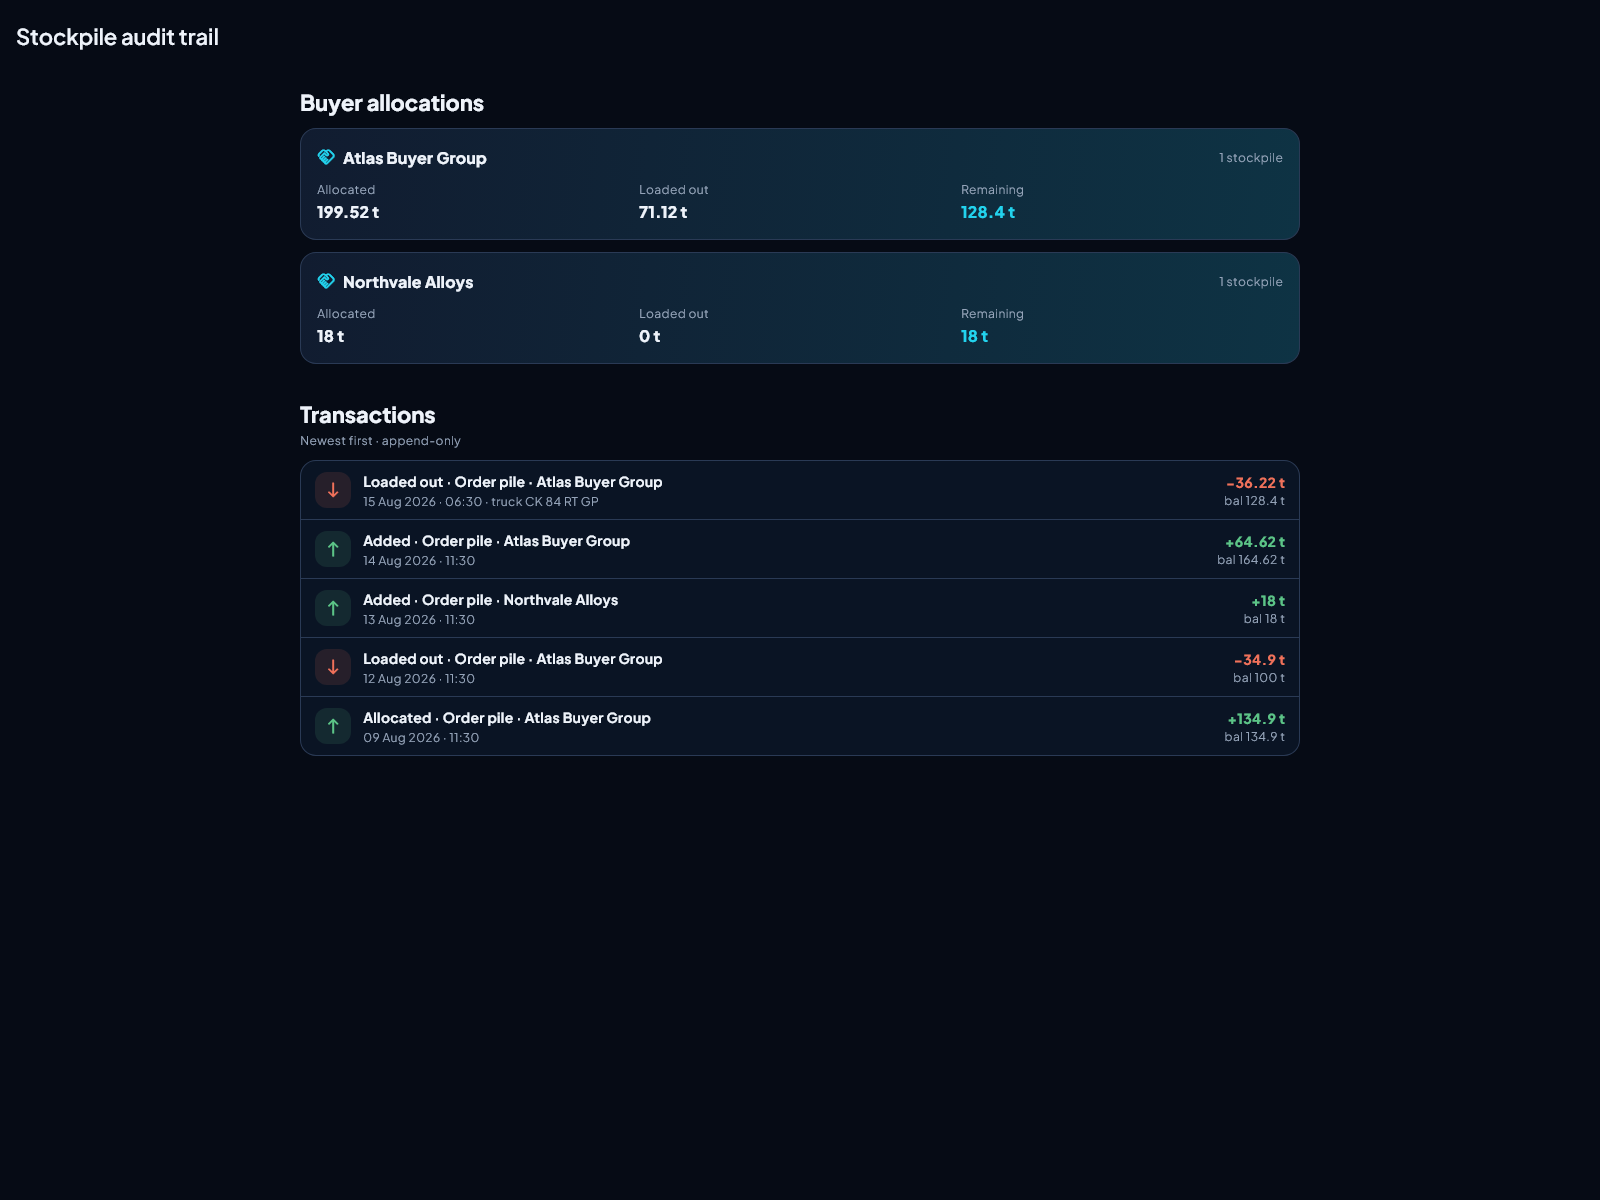
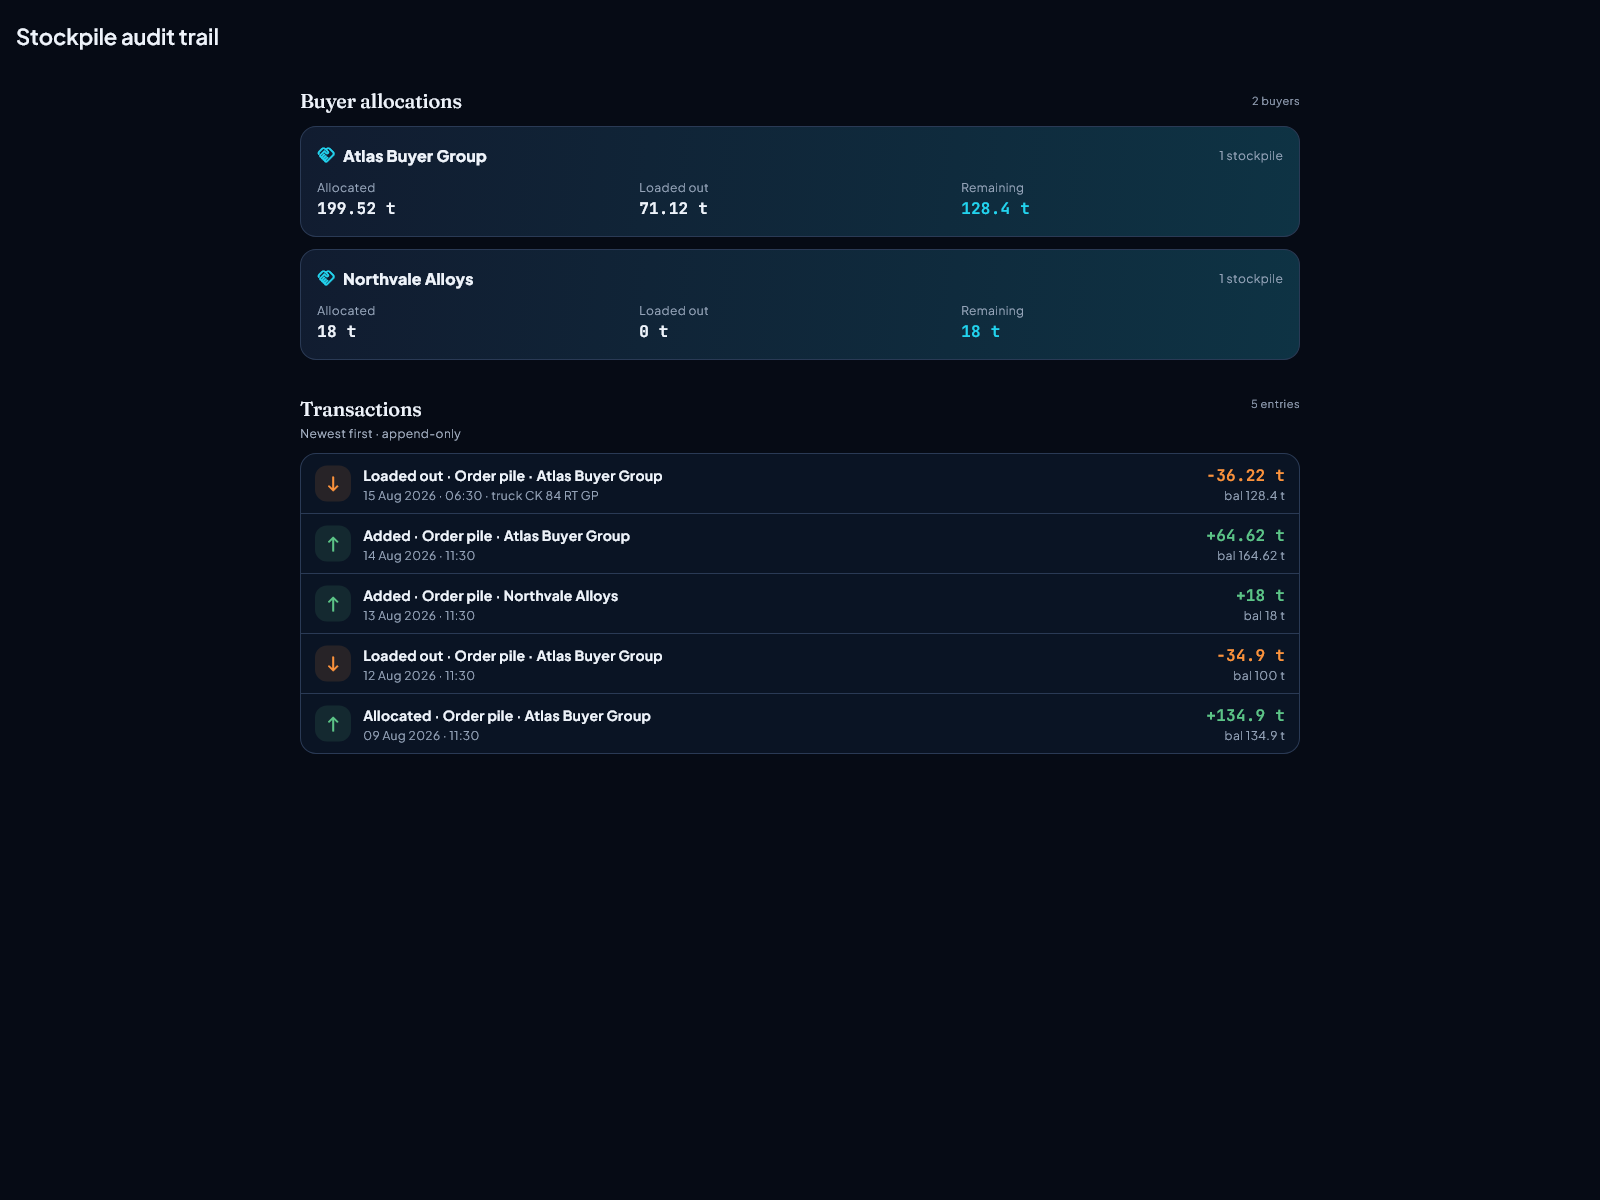
fix(mine): the stockpile audit trail heads in the display face, tones a load-out amber, keeps the plate whole and sets its figures in mono
Phase 3 mine-portal pass, 2026-08-23. Four faults on one screen:
- "Buyer allocations" and "Transactions" were 22px sans ExtraBold with the
  sub-line a separate Text → MlSectionTitle with a count meta and the
  subtitle in its slot.
- Every "Loaded out" movement drew in the ERROR tone — red well, red
  figure — for a normal load-out. The reference reserves red for a fault
  and makes a downward figure amber (design-reference §4) → MlTone.warn;
  additions stay green.
- "15 Aug 2026 · 06:30 · truck CK 84 RT" / "GP" on a phone → the plate's
  spaces are U+00A0, so it is one token.
- The allocation figures and the ± deltas were sans w800 → mono.

Pinned by stockpile_audit_heads_test.dart, one case each; sabotaged by
stashing the screen — all four fail ('"Buyer allocations" is not Fraunces',
'a load-out figure is red', 'plate "CK 84 RT GP" carries a breakable
space', 'Expected JetBrainsMono'). Both audit goldens regenerated and
looked at side by side.

Changed region(s): [[0.1875, 0.0617, 0.8125, 0.3083], [0.1875, 0.3392, 0.4375, 0.6167], [0.75, 0.37, 0.8125, 0.6167]]

diff --git a/lib/features/portal/screens/stockpile_audit_screen.dart b/lib/features/portal/screens/stockpile_audit_screen.dart
@@ -10,7 +10,8 @@ import 'package:flutter_application_1/features/portal/providers/stockpile_ledger
 import 'package:flutter_application_1/features/portal/utils/portal_company_resolution.dart';
 import 'package:flutter_application_1/features/portal/widgets/premium_overview_widgets.dart';
 import 'package:flutter_application_1/features/portal/widgets/portal_company_required.dart';
-import 'package:flutter_application_1/core/design/tokens/ml_tokens.dart';
+import 'package:flutter_application_1/core/design/components/ml_components.dart';
+import 'package:flutter_application_1/core/design/tokens/m3/ml_typography.dart';
 import 'package:flutter_application_1/core/time/ml_time.dart';
 
 /// Permanent stockpile audit trail: per-buyer balances and the full,
@@ -53,24 +54,22 @@ class StockpileAuditScreen extends ConsumerWidget {
             child: Column(
               crossAxisAlignment: CrossAxisAlignment.start,
               children: [
-                Text('Buyer allocations',
-                    style: Theme.of(context)
-                        .textTheme
-                        .titleLarge
-                        ?.copyWith(fontWeight: FontWeight.w800)),
-                const SizedBox(height: 12),
+                // Section headings in the reference's vocabulary — both
+                // were 22px sans ExtraBold, with the sub-line a separate
+                // Text. Phase 3 mine pass, 2026-08-23.
+                MlSectionTitle(
+                  'Buyer allocations',
+                  meta: mlCount(buyerList.length, 'buyer'),
+                  margin: const EdgeInsets.only(bottom: 12),
+                ),
                 for (final b in buyerList) _BuyerBalanceCard(buyer: b, ledger: ledger),
                 const SizedBox(height: 24),
-                Text('Transactions',
-                    style: Theme.of(context)
-                        .textTheme
-                        .titleLarge
-                        ?.copyWith(fontWeight: FontWeight.w800)),
-                const SizedBox(height: 4),
-                Text('Newest first · append-only',
-                    style: Theme.of(context).textTheme.bodySmall?.copyWith(
-                        color: scheme.onSurfaceVariant)),
-                const SizedBox(height: 12),
+                MlSectionTitle(
+                  'Transactions',
+                  subtitle: 'Newest first · append-only',
+                  meta: mlCount(ledger.transactions.length, 'entry', 'entries'),
+                  margin: const EdgeInsets.only(bottom: 12),
+                ),
                 if (ledger.transactions.isEmpty)
                   Text('No transactions yet.',
                       style: TextStyle(color: scheme.onSurfaceVariant))
@@ -193,12 +192,14 @@ class _Stat extends StatelessWidget {
                   .bodySmall
                   ?.copyWith(color: scheme.onSurfaceVariant)),
           const SizedBox(height: 2),
+          // Mono: a figure in a column (design-reference §3).
           Text(
             value,
-            style: Theme.of(context).textTheme.titleMedium?.copyWith(
-                  fontWeight: FontWeight.w800,
-                  color: emphasize ? PortalColors.accent : scheme.onSurface,
-                ),
+            style: context.mlText.code(
+              size: MlTokens.fsH3,
+              weight: FontWeight.w700,
+              color: emphasize ? PortalColors.accent : scheme.onSurface,
+            ),
           ),
         ],
       ),
@@ -218,8 +219,12 @@ class _TxnRow extends StatelessWidget {
     // theme was. On the dark stockpile ledger that put `-36.22 t` at 3.28:1
     // and `+64.62 t` at 3.60:1 — the tonnage, which is the only number on the
     // row anyone came to read. `MlTone` is the brightness-aware pair, and it
-    // carries the lifecycle meaning too: out is an error tone, in is done.
-    final tone = (isOut ? MlTone.error : MlTone.done)
+    // carries the lifecycle meaning too. A load-out is WARN, not error: it
+    // is a normal movement — the reference reserves red for a fault and
+    // makes a downward figure amber (design-reference §4, "negative deltas
+    // are amber, not red"). Every "Loaded out" row on the trail used to
+    // draw in the fault colour. Phase 3 mine pass, 2026-08-23.
+    final tone = (isOut ? MlTone.warn : MlTone.done)
         .colors(Theme.of(context).brightness);
     final color = tone.fg;
     return Padding(
@@ -267,8 +272,10 @@ class _TxnRow extends StatelessWidget {
                 ),
                 const SizedBox(height: 2),
                 Text(
+                  // The plate is one token: with plain spaces a phone broke
+                  // "truck CK 84 RT" / "GP" across two lines.
                   '${MlTime.stamp(txn.at)}'
-                  '${txn.truckReg != null ? ' · truck ${txn.truckReg}' : ''}',
+                  '${txn.truckReg != null ? ' · truck ${txn.truckReg!.replaceAll(' ', ' ')}' : ''}',
                   style: Theme.of(context).textTheme.bodySmall?.copyWith(
                       color: scheme.onSurfaceVariant),
                 ),
@@ -281,7 +288,10 @@ class _TxnRow extends StatelessWidget {
             children: [
               Text(
                 '${txn.delta >= 0 ? '+' : '−'}${formatTons(txn.magnitude)}',
-                style: TextStyle(fontWeight: FontWeight.w800, color: color),
+                style: context.mlText.code(
+                  weight: FontWeight.w700,
+                  color: color,
+                ),
               ),
               Text('bal ${formatTons(txn.balanceAfter)}',
                   style: Theme.of(context).textTheme.bodySmall?.copyWith(

diff --git a/test/features/portal/stockpile_audit_heads_test.dart b/test/features/portal/stockpile_audit_heads_test.dart
@@ -1,0 +1,106 @@
+// The stockpile audit trail in the portal's vocabulary.
+//
+// Phase 3 mine-portal pass, 2026-08-23. Four things on one screen: both
+// section headings were 22px sans ExtraBold (the sub-line a separate Text);
+// every "Loaded out" movement was drawn in the ERROR tone — red well, red
+// figure — for a normal load-out, where the reference reserves red for a
+// fault and makes a downward figure amber; the plate broke across lines on a
+// phone ("truck CK 84 RT" / "GP"); and the column figures were sans w800.
+
+import 'package:flutter/material.dart';
+import 'package:flutter/rendering.dart';
+import 'package:flutter_riverpod/flutter_riverpod.dart';
+import 'package:flutter_test/flutter_test.dart';
+import 'package:shared_preferences/shared_preferences.dart';
+import 'package:supabase_flutter/supabase_flutter.dart';
+
+import 'package:flutter_application_1/core/design/tokens/ml_tokens.dart';
+import 'package:flutter_application_1/core/theme/app_theme.dart';
+import 'package:flutter_application_1/features/auth/models/user_type.dart';
+import 'package:flutter_application_1/features/portal/screens/stockpile_audit_screen.dart';
+
+import '../../fixtures/portal_capture_fixtures.dart';
+import '../../fixtures/portal_tail_fixtures.dart';
+import '../../fixtures/screen_fixtures.dart';
+import '../../test_helpers/real_fonts.dart';
+import '../../test_helpers/frozen_clock.dart';
+
+void main() {
+  setUpAll(() async {
+    freezeCaptureClock();
+    await loadRealFonts();
+    SharedPreferences.setMockInitialValues({});
+    await Supabase.initialize(
+      url: 'http://localhost:54321',
+      anonKey: 'stockpile-audit-heads-test',
+    );
+  });
+
+  Future<void> pump(WidgetTester tester, {double width = 1600}) async {
+    tester.view.physicalSize = Size(width, 2000);
+    tester.view.devicePixelRatio = 1.0;
+    addTearDown(tester.view.reset);
+    await tester.pumpWidget(ProviderScope(
+      overrides: [
+        ...companyScopeOverrides(
+            role: UserRole.supervisorForeman, orgType: OrgType.mineSupplier),
+        ...portalCaptureOverrides(),
+        ...portalTailOverrides(),
+      ],
+      child: MaterialApp(
+        theme: AppTheme.darkTheme,
+        home: const StockpileAuditScreen(),
+      ),
+    ));
+    await tester.pump();
+    await tester.pump(const Duration(milliseconds: 400));
+  }
+
+  RenderParagraph para(String text) =>
+      find.text(text).evaluate().single.renderObject! as RenderParagraph;
+
+  testWidgets('both section headings are in the display face', (tester) async {
+    await pump(tester);
+    for (final h in const ['Buyer allocations', 'Transactions']) {
+      expect(para(h).text.style?.fontFamily, MlTokens.fontSerif,
+          reason: '"$h" is not Fraunces');
+    }
+    expect(find.text('Newest first · append-only'), findsOneWidget);
+  });
+
+  testWidgets('a load-out is amber, not the fault colour', (tester) async {
+    await pump(tester);
+    final brightness = Brightness.dark;
+    final warn = MlTone.warn.colors(brightness).fg;
+    final error = MlTone.error.colors(brightness).fg;
+    final outs = find.textContaining('−').evaluate().map(
+        (e) => (e.renderObject! as RenderParagraph).text.style?.color);
+    expect(outs, isNotEmpty, reason: 'no load-out rows rendered');
+    for (final c in outs) {
+      expect(c, isNot(error), reason: 'a load-out figure is red');
+      expect(c, warn);
+    }
+  });
+
+  testWidgets('the plate never breaks on a phone', (tester) async {
+    await pump(tester, width: 360);
+    final lines = find.textContaining('truck').evaluate();
+    expect(lines, isNotEmpty);
+    for (final e in lines) {
+      final text = (e.widget as Text).data!;
+      final plate = text.substring(text.indexOf('truck') + 6);
+      expect(plate.contains(' '), isFalse,
+          reason: 'plate "$plate" carries a breakable space');
+    }
+  });
+
+  testWidgets('column figures are mono', (tester) async {
+    await pump(tester);
+    final figures = find.textContaining(RegExp(r'^[+−]\d')).evaluate();
+    expect(figures, isNotEmpty);
+    for (final e in figures) {
+      expect((e.renderObject! as RenderParagraph).text.style?.fontFamily,
+          MlTokens.fontMono);
+    }
+  });
+}
